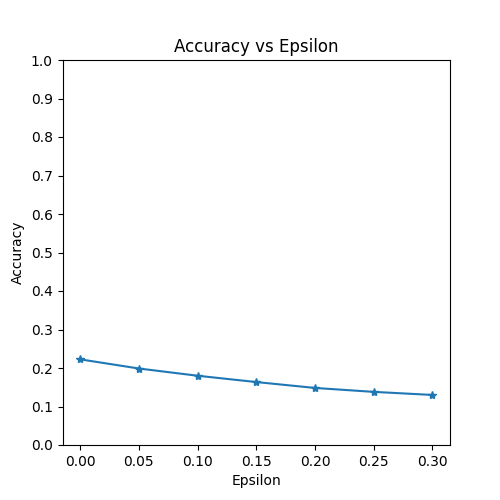
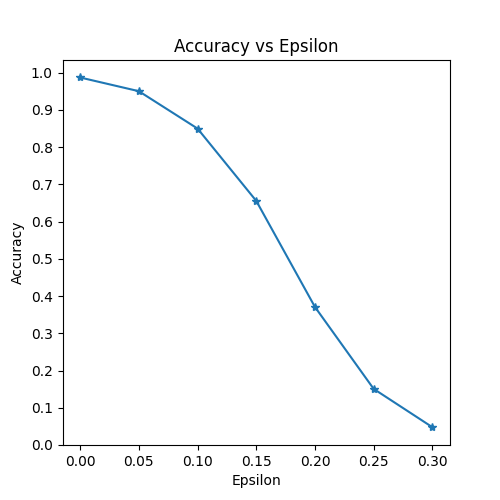
fixed issue with attacks not working correctly

diff --git a/data_loader.py b/data_loader.py
@@ -80,7 +80,7 @@ class ImageDataset():
 
             elif type == "TORCH_MNIST":
                 self.train = torchvision.datasets.MNIST("./data", transform=None, download=True, train=True)
-                self.x_train = self.train.data.numpy()
+                self.x_train = self.train.data.numpy() / 255.0
                 self.y_train = self.train.targets.numpy()
 
                 self.shape = list(self.x_train.shape)
@@ -89,13 +89,13 @@ class ImageDataset():
                 print("Unique Classes: ", self.num_classes)
 
                 self.test = torchvision.datasets.MNIST("./data", transform=None, download=True, train=False)
-                self.x_test = self.test.data.numpy()
+                self.x_test = self.test.data.numpy() / 255.0
                 self.y_test = self.test.targets.numpy()
 
-                print("Preprocessing train and validation data...")
-                self.normalize_image_pixels(self.x_train)
-                print("Preprocessing test data...")
-                self.normalize_image_pixels(self.x_test)
+                # print("Preprocessing train and validation data...")
+                # self.preprocess_normalize_only(self.x_train)
+                # print("Preprocessing test data...")
+                # self.preprocess_normalize_only(self.x_test)
 
                 self.train = torch.utils.data.TensorDataset(torch.FloatTensor(self.x_train),
                                                             torch.LongTensor(self.y_train))
@@ -332,12 +332,12 @@ class ImageDataset():
         """
 
         # for normalizing pixels
-        # return np.divide(image, 255.0)
+        return np.divide(image, 255.0)
 
         # for converting images to zero mean and unit variance
         # formula: z-score = x - mean / std
         # return (image - image.mean()) / image.std()
-        return np.divide(np.subtract(image, np.mean(image)), np.std(image))
+        # return np.divide(np.subtract(image, np.mean(image)), np.std(image))
 
 
 if __name__ == "__main__":
